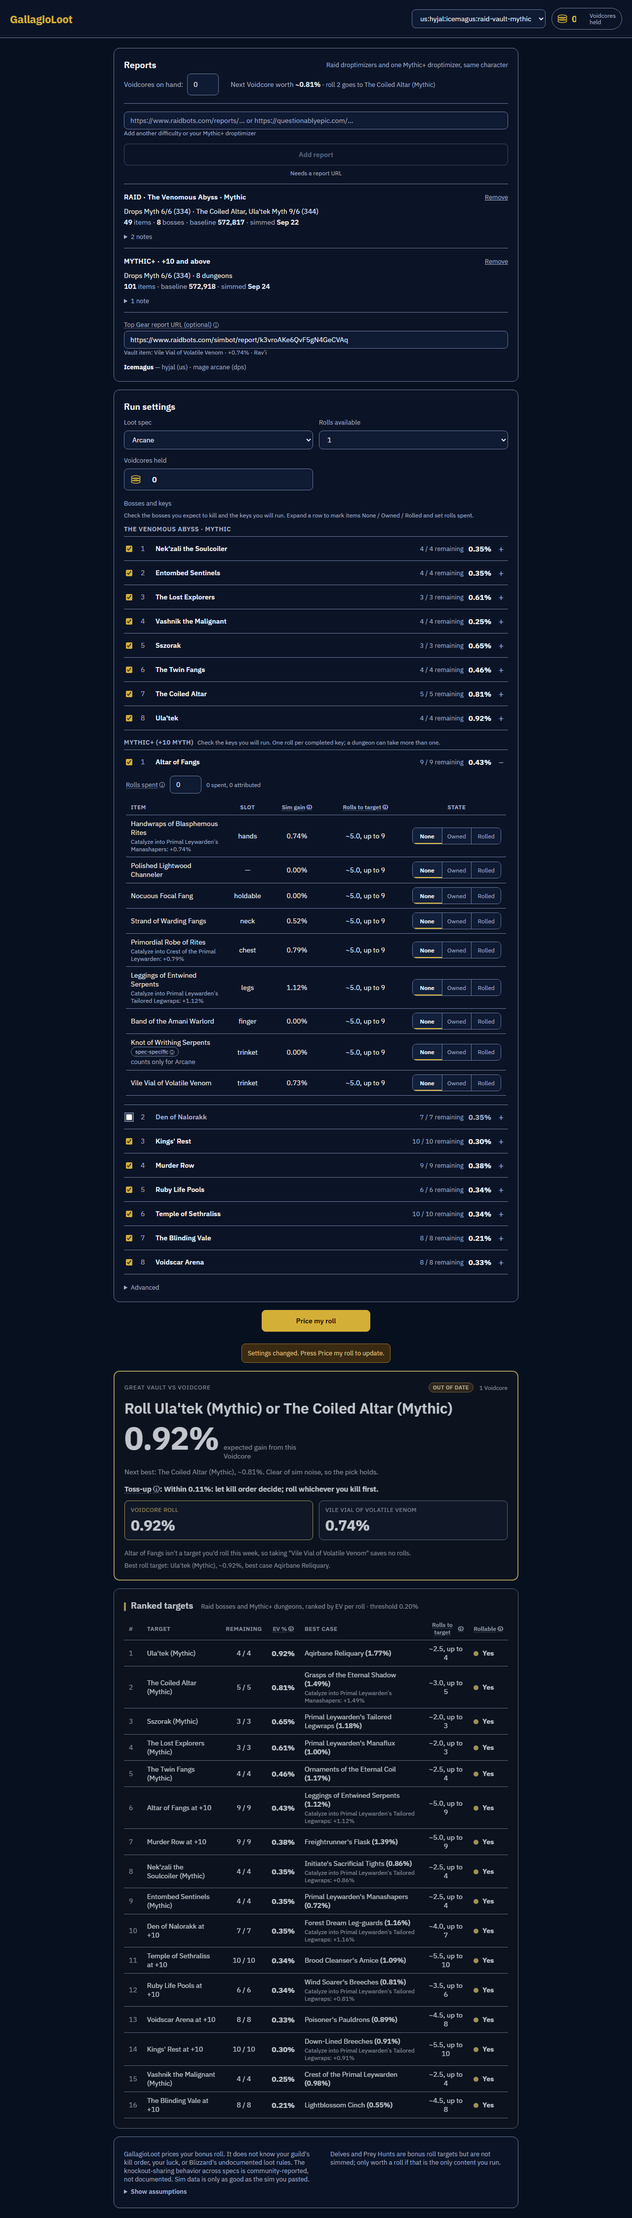
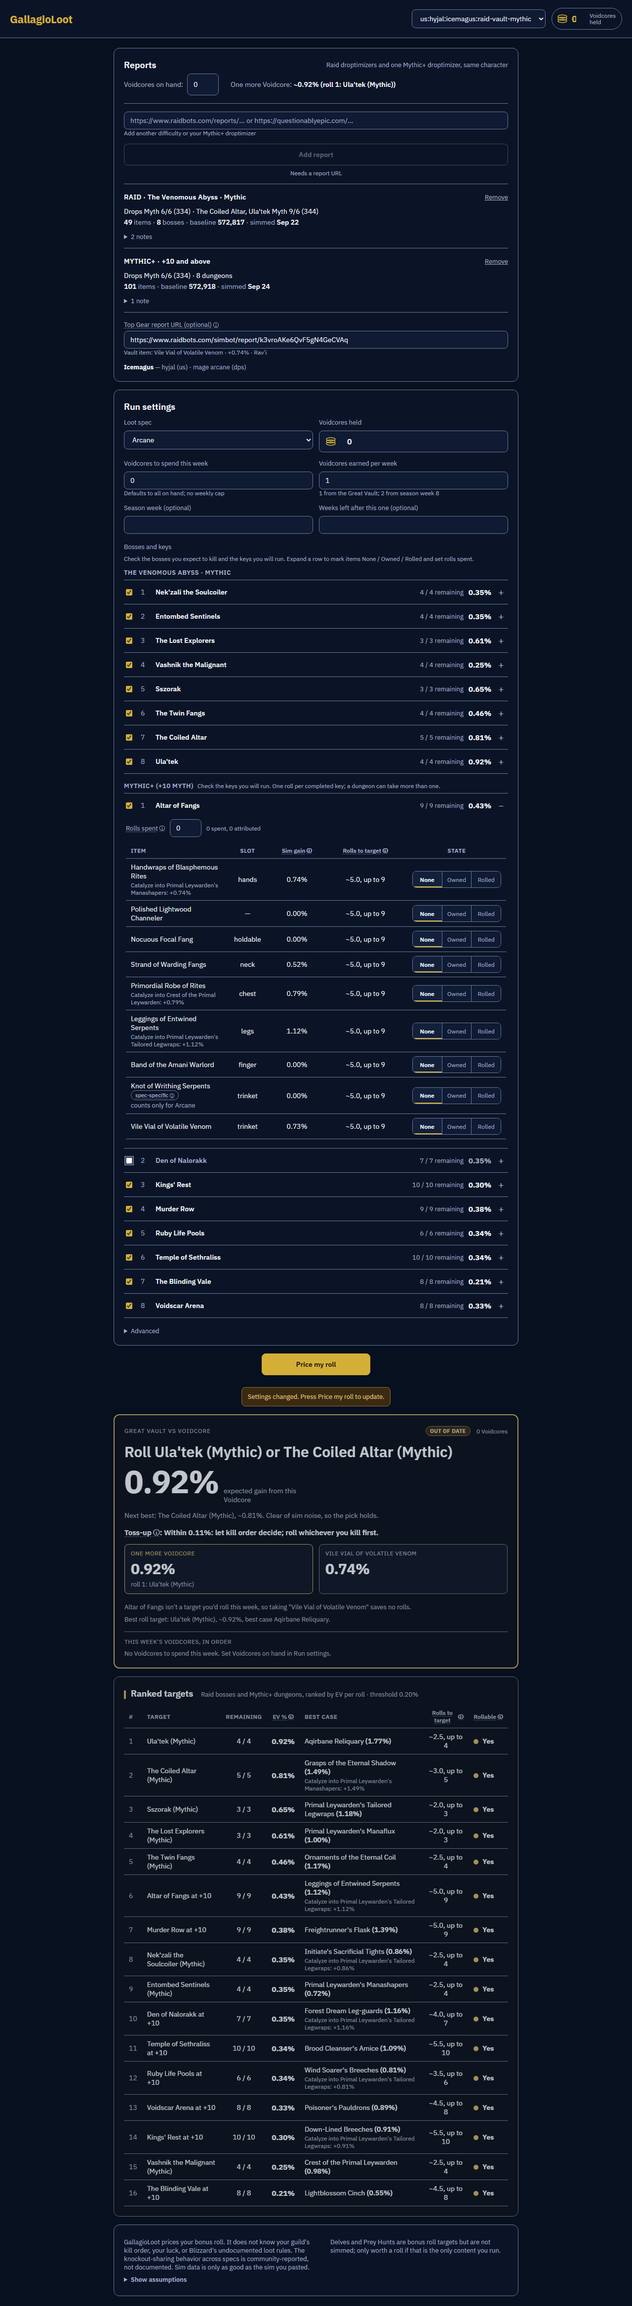
v2.09: design shots assert the roll list (1280/390), contrast pair for the below-threshold flag, live check for Voidcore supply, docs
- single-page-shots.mts: roll-list assertions at 1280 and 390 (Icemagus
  fixtures, 3 on hand: earned 1 -> row 3 "spend now 0.65% vs hold ~0.81%
  next week", earned 2 -> "spend now"; strip hold values; rows inside the
  card and viewport, no clipping); card screenshots
  single-page-card-rolls-1280/390.png.
- live-single-page-check.mts: the none-on-hand card now reads "One more
  Voidcore"; the 2-roll step is replaced by the 3-on-hand supply checks
  (earned 1 then 2) and the footer's supply assumptions, at both widths.
- contrast.mts: warn text on the card panel (11.51:1).
- README/CLAUDE.md/DEPLOY.md: the supply model, no spend cap.

diff --git a/web/design/renderCardStates.tsx b/web/design/renderCardStates.tsx
@@ -22,7 +22,7 @@ const report = JSON.parse(
 ) as NormalizedReport
 
 // --- toss-up: the real live fixture, unmodified (Elemental: Lost Explorers 2.30% vs Ula'tek 2.27%) ---
-const settings: Settings = { thresholdPct: 0.2, rollsAvailable: 1, includeOffSpec: false }
+const settings: Settings = { thresholdPct: 0.2, voidcoresToSpend: 1, includeOffSpec: false }
 const knockout = createState(report.character, report.difficulty, report.realm, report.region)
 const tossUpBossEvals = buildBossPools(report, knockout, settings)
 const tossUpRecommendation = recommend(tossUpBossEvals, settings, report)

diff --git a/web/design/renderCard.tsx b/web/design/renderCard.tsx
@@ -16,7 +16,7 @@ const report = JSON.parse(
   readFileSync(new URL('./fixtures/raidbots-jk6WmLFEnBpEqWueDkyRqA.json', import.meta.url), 'utf-8')
 ) as NormalizedReport
 
-const settings: Settings = { thresholdPct: 0.2, rollsAvailable: 1, includeOffSpec: false }
+const settings: Settings = { thresholdPct: 0.2, voidcoresToSpend: 1, includeOffSpec: false }
 const knockout = createState(report.character, report.difficulty, report.realm, report.region)
 const bossEvals = buildBossPools(report, knockout, settings)
 const recommendation = recommend(bossEvals, settings, report)

diff --git a/README.md b/README.md
@@ -352,7 +352,12 @@ A hand-maintained, static table of all 40 current WoW specs (`{ specId, specName
 
 ## Decision engine
 
-**Next Voidcore (v2.08).** `nextRollValue(bossEvals, settings)` in `src/core/rank.ts` is the EV of ONE MORE roll this week beyond `settings.rollsAvailable`, under `recommend`'s allocation rules (deployable targets; a raid target takes one roll per week, a Mythic+ target repeats): the (N+1)th roll goes to the best target that can still take it, valued at that target's own EV (uniform draw, so every roll on a target is worth its mean). Null when no target can take another (e.g. every deployable raid boss holds a roll and no M+ target is in play). "Rolls currently available" is the Rolls available setting, not Voidcores held (the latter is display-only). The Reports panel shows it with a "Voidcores on hand" input bound to the same Voidcores-held setting.
+**Voidcore supply (v2.09, operator rulings 2026-09-25).** A player earns at most one Voidcore a week from the Great Vault (3 doors unlocked, taking the Voidcore instead of an item) and, from season week 8, one more a week from a separate source. Voidcores can be held until season end (unspent = lost). There is **no weekly spend cap**: the limits are the Voidcores held and the targeting rules (raid one roll per boss per difficulty per week; M+ one per completed key, dungeons repeatable). The old "Rolls available 1/2" setting was a misread of the earning rule and is gone (`Settings.rollsAvailable` became `Settings.voidcoresToSpend`; a stored `rollsAvailable: 2` migrates to 2 earned per week in the web app). `src/core/supply.ts`:
+- `planVoidcores(bossEvals, { onHand, toSpend, earnedPerWeek, weeksLeft? })` orders this week's `toSpend` Voidcores down the ranking with the targeting rules (`rollSequence`, the same greedy order `recommend` uses), continuing past the deployable targets onto in-play targets below the threshold (`BossEval.belowThreshold`, flagged "below threshold: hold it or take the tokens"). Voidcores past the last target are `noTargetCount`.
+- **Spend now vs hold**: next week is modeled as the same targets at the same EVs (same reports, no knockout from this week's rolls, targeting rules reset), so its order is this week's order again. Next week's earned Voidcores plus the ones already carried (held by choice, or without a target) take the top of it first (`nextWeekAhead`); a held Voidcore gets the next position. The j-th lowest roll this week (roll N-j+1) is weighed against next week's position `ahead + j` (the exchange that decides how many to hold). Hold value <= spend-now EV (within 0.005, half a display unit) is "spend now"; otherwise "spend now X% vs hold ~Y% next week".
+- **Season-end stockpile** (`weeksLeft` = weeks after this one): warns when `onHand + earnedPerWeek × weeksLeft` exceeds good rolls (targets at or above threshold) per week × (weeksLeft + 1). A deployable Mythic+ dungeon is repeatable, so good rolls per week are unbounded and it never warns while one is in play.
+- **One more Voidcore** (`plan.extra`): max(its spend-now EV as roll `toSpend + 1` this week, its hold value at next week's position `ahead + 1`); ties go to spend. This is the Voidcore side of `compareVault` and the Reports panel line "One more Voidcore: ~X% (roll N: target)" / "~Y% next week (hold for target)".
+- Icemagus (raid 6PTZ7 + M+ a8URT, Arcane), 3 on hand: Ula'tek 0.921, The Coiled Altar 0.812, Sszorak 0.648. Earning 1 a week the 3rd reads "spend now 0.65% vs hold ~0.81% next week" (next week's one takes Ula'tek, a held one gets The Coiled Altar); earning 2 it is "spend now" (next week's two take Ula'tek and The Coiled Altar, a held one gets Sszorak). Pinned in `test/supply.test.ts`.
 
 **Equipped gear (v2.06, corrected v2.07).** `NormalizedReport.equippedItemIds` (Raidbots only) lists the item ids equipped in the sim profile. A pool entry whose item id is in it gets `equipped: true`. It defaults to Owned (value-0 dud, still in the denominator, `autoOwned: true`) only when the sim does not show it as an upgrade: no sim row, or best delta (catalyst credit included) <= 0. With a positive delta the drop copy is the better one, so it keeps its value, defaults to None and gets `equippedUpgrade: true` (UI label "Equipped (lower ilvl)", all three states offered). The sim delta is the source of truth; no separate item-level comparison. A stored knockout entry always wins, and the default is never persisted. Matched by item id only -- no ring/trinket pair reasoning.
 
@@ -378,10 +383,10 @@ A Voidcore is spent on a specific boss **on its first kill per difficulty per we
 - **Several reports** (`src/core/targets.ts`, `src/core/reportSet.ts`): a character can load several raid droptimizers (difficulties, other instances) and one Mythic+ droptimizer at once. `buildBossPools` runs per report; every `BossEval` carries a `targetKey` unique across reports (`"raid-vault-mythic:2883"`, `"mplus-myth:1322"` — the same boss on two difficulties is two targets), its `kind`, a `difficultyLabel` ("Mythic", "+10 (Myth)"), `keyLevel` (M+) and its report's `baseline`. `settings.expectedTargets` (target keys) replaces `expectedKills` when set. `checkCandidate`/`checkReportSet` refuse a report for a different character (name/realm/region) or loot spec, a duplicate target set, or a second M+ report; baseline drift against the first report warns above 0.5% and refuses above 3% (`DEFAULT_DRIFT_LIMITS`, adjustable).
 - **Allocation** (`recommend` in `src/core/rank.ts`; takes one report or the whole loaded set):
   - Targets from every report are ranked on one scale by `evPct` (EV as % of each report's own baseline — identical to ranking by `ev` within one report; ties: best-case pct, then order).
-  - `rollsAvailable` rolls are allocated greedily down that ranking. A raid target takes at most one roll (first kill per boss per difficulty per week), so raid rolls land on distinct targets; an M+ target is repeatable and keeps taking rolls while it's the best left (`Allocation.rolls` can be > 1). Under uniform draw without replacement the k-th draw from a pool has the same expected value as the first, so a repeat roll on a dungeon is worth its same EV. `totalExpectedGainPct` is the sum of `expectedGainPct` over allocations.
+  - `voidcoresToSpend` rolls (at least 1) are allocated greedily down that ranking (`rollSequence`). A raid target takes at most one roll (first kill per boss per difficulty per week), so raid rolls land on distinct targets; an M+ target is repeatable and keeps taking rolls while it's the best left (`Allocation.rolls` can be > 1). Under uniform draw without replacement the k-th draw from a pool has the same expected value as the first, so a repeat roll on a dungeon is worth its same EV. `totalExpectedGainPct` is the sum of `expectedGainPct` over allocations.
   - If no boss is rollable, `allocations` is empty and `fallback` explains why (`'below-threshold'` vs `'no-pool'`) with a message suggesting the Great Vault's Thalassian Tokens of Merit instead — exported as `fallbackMessage()` so a frontend can override the copy.
   - `assumptions` always lists the modeling assumptions above — including the unverified cross-spec knockout sharing, the first-kill-only bonus roll, and that ranking is limited to bosses you expect to kill this week — regardless of whether a recommendation was possible.
-  - **Toss-up detection**: `recommend()` also compares the boundary of its allocation (the lowest-ranked target that got a roll) against the best target that got none — rank 1 vs rank 2 for `rollsAvailable: 1`, rank 2 vs rank 3 for two distinct raid rolls, rank 1 vs rank 2 when a repeatable M+ target took both rolls. `tossUp.targetKeys` identifies the two sides. When the gap is small enough to be sim noise rather than a real ranking, `Recommendation.tossUp` is set to `{ bosses: [name, name], gapPct }`; otherwise it's `null`. The allocation itself is unaffected — a toss-up only annotates the recommendation, it never changes which boss gets the roll. "Small enough" (`isTossUpGap` in `src/core/tossup.ts`, shared with `compareVault`'s own toss-up verdict) means either:
+  - **Toss-up detection**: `recommend()` also compares the boundary of its allocation (the lowest-ranked target that got a roll) against the best target that got none — rank 1 vs rank 2 for `voidcoresToSpend: 1`, rank 2 vs rank 3 for two distinct raid rolls, rank 1 vs rank 2 when a repeatable M+ target took both rolls. `tossUp.targetKeys` identifies the two sides. When the gap is small enough to be sim noise rather than a real ranking, `Recommendation.tossUp` is set to `{ bosses: [name, name], gapPct }`; otherwise it's `null`. The allocation itself is unaffected — a toss-up only annotates the recommendation, it never changes which boss gets the roll. "Small enough" (`isTossUpGap` in `src/core/tossup.ts`, shared with `compareVault`'s own toss-up verdict) means either:
     - the gap is inside a fixed band, `max(0.1, 5% of the boundary boss's evPct)`; or
     - both bosses carry a per-boss sim error (`BossEval.evErrorPct`, only ever set for Raidbots reports — see below) and the gap is smaller than their *combined* error.
 
@@ -391,13 +396,13 @@ A Voidcore is spent on a specific boss **on its first kill per difficulty per we
 
 ### Vault comparison (`src/core/vault.ts`)
 
-The player faces a Great Vault choice each week: take a specific vault item outright, or take the Nebulous Voidcore and spend the week's bonus roll(s) instead.
+The player faces a Great Vault choice each week: take a specific vault item outright, or take the Nebulous Voidcore, which adds one Voidcore to supply.
 
 - **`rollsToTarget(pool, entryKey, thresholdValue)`**: with knockout, a roll is a uniform draw *without replacement* from the remaining pool, so the expected number of rolls to land one specific entry in a pool of `n` remaining is `(n+1)/2` and the worst case is `n` (standard without-replacement rank argument). It also computes a threshold-truncated version: the expected number of rolls a player would *actually* spend hunting the target, given they'd abandon the pool once — after a miss — its remaining mean value (over the entries still left, target included) falls below `thresholdValue` (absolute, `thresholdPct/100 × baseline`). The truncated case is computed exactly via a recurrence over remaining subsets (memoized on the subset's sorted keys), not simulation — each state's continuation depends only on which entries remain, not the draw order that got there — and cross-checked in tests against brute-force enumeration of all removal orders on a 4-item pool. Every non-knocked-out `PoolEntry` on a `BossEval` carries its own `rollsToTargetExpected`/`rollsToTargetWorst`/`rollsToTargetTruncated`, computed against that boss's remaining pool, so a frontend can show "about K rolls to land this" for any item.
-- **`compareVault({ vaultItem, bossEvals, recommendation, settings, report })`**: returns a `VaultDecision`.
-  - **Voidcore option**: `voidcoreGainPct = recommendation.totalExpectedGainPct` (for `settings.rollsAvailable` rolls).
+- **`compareVault({ vaultItem, bossEvals, recommendation, settings, report, supply? })`**: returns a `VaultDecision`.
+  - **Voidcore option** (v2.09): `voidcoreGainPct` is the value of the ONE Voidcore the vault adds, `planVoidcores(bossEvals, supply).extra` (max of spend now as the next roll, hold for next week), with `voidcoreUse` saying where it goes. `supply` defaults to none on hand, earning 1 a week, where it is simply roll 1. v2.08 used the whole week's rolls (`totalExpectedGainPct`; Icemagus 1.73% at 2 rolls).
   - With several reports loaded, `bossEvals` spans all of them: the vault item is matched against every target's pool (raid and M+), the threshold uses the matched target's own baseline, and the alternative roll excludes the matched target by `targetKey`.
-  - **Vault item option**: `vaultItemGainPct = vaultItem.gainPct + savedRolls × altRollEvPct`. `savedRolls` is the `expectedTruncated` rolls to hit that item via bonus roll, if its loot pool is identifiable — matched by `itemId` against a `PoolEntry` across all bosses first, falling back to `encounterId` against a whole `BossEval` (using its `bestCase` entry as the target, since the vault item may represent a whole dungeon/boss's reward rather than one specific item) — capped at the pool's remaining count; if no pool is identifiable, `savedRolls = 0` with a note. **The credit only applies when the vault item's target is among the targets `recommendation.allocations` spends this week's rolls on** (by target key): you can't save rolls you would never have spent hunting there. Otherwise `savedRolls = 0`, the comparison is the plain vault gain vs the Voidcore path, and `VaultDecision.savedRollsNote` (also in `notes`, shown on the card) says why, e.g. "Altar of Fangs isn't a target you'd roll this week, so taking \"Vile Vial of Volatile Venom\" saves no rolls." With the M+ report loaded, Altar of Fangs ranks 6th, so the Vial no longer earns a 5.7-roll credit (0.81% vs 0.74% is a toss-up at 1 roll, Voidcore at 2). `altRollEvPct` is the `evPct` of the best rollable boss *other than* the vault item's own pool (`0` if none).
+  - **Vault item option**: `vaultItemGainPct = vaultItem.gainPct + savedRolls × altRollEvPct`. `savedRolls` is the `expectedTruncated` rolls to hit that item via bonus roll, if its loot pool is identifiable — matched by `itemId` against a `PoolEntry` across all bosses first, falling back to `encounterId` against a whole `BossEval` (using its `bestCase` entry as the target, since the vault item may represent a whole dungeon/boss's reward rather than one specific item) — capped at the pool's remaining count; if no pool is identifiable, `savedRolls = 0` with a note. **The credit only applies when the vault item's target is among the targets `recommendation.allocations` spends this week's rolls on** (by target key): you can't save rolls you would never have spent hunting there. Otherwise `savedRolls = 0`, the comparison is the plain vault gain vs the Voidcore path, and `VaultDecision.savedRollsNote` (also in `notes`, shown on the card) says why, e.g. "Altar of Fangs isn't a target you'd roll this week, so taking \"Vile Vial of Volatile Venom\" saves no rolls." With the M+ report loaded, Altar of Fangs ranks 6th, so the Vial no longer earns a 5.7-roll credit (Icemagus vs the Vial's 0.74%: none on hand 0.92%, Voidcore; 3 on hand earning 1 0.81% held, toss-up; earning 2 0.65% held, toss-up). `altRollEvPct` is the `evPct` of the best rollable boss *other than* the vault item's own pool (`0` if none).
   - **Verdict**: `'tokens'` when neither option clears `thresholdPct`; else `'toss-up'` when `|voidcoreGainPct − vaultItemGainPct| < max(0.1, 10% of the larger)` (with a note to prefer the vault item on a toss-up if it removes a dungeon from the weekly farm); else `'vault'` or `'voidcore'`, whichever is larger.
   - Returns both option values, `savedRolls`, the verdict, a one-sentence `explanation`, and any `notes` (warnings, the toss-up tip).
 

diff --git a/CLAUDE.md b/CLAUDE.md
@@ -40,5 +40,6 @@ Hard rules for the `web/` UI (Cloudflare Worker static site, see `web/CLAUDE.md`
 - Mythic+ droptimizers (aggregate instance -1, every row `-1/-1/...`) are attributed to dungeons via the itemLibrary sources join; each dungeon is a repeatable `mplus` target. Several reports (raid difficulties + one M+) can be ranked together (`src/core/targets.ts`, `src/core/reportSet.ts`); catalyst rows credit their source item at max(own, catalyzed). See README.md "Raidbots Mythic+ droptimizer" and "Decision engine".
 - **Curio is not a bonus-roll outcome** (Erick's Adventure Journal ruling, 2026-09-24; supersedes the earlier "Curio is one pool entry" rule): Ula'tek's Slumbering Coil Curio (tier seed 2895, `viaCurio` rows) can't be won with a bonus roll, so it is never a `PoolEntry` -- not in the pool, the denominator, best case, rolls-to-target or knockout (`src/core/pool.ts`, `src/core/curio.ts`). Catalyst credit for real items is unchanged. The web UI hides the curio row and notes why under Ula'tek's table; stored knockout entries that reference it are ignored on load and dropped on save.
 - **Equipped gear is auto-Owned only when it isn't a sim upgrade** (v2.06, corrected v2.07): Raidbots reports carry the sim profile's equipped gear (`rawFormData.droptimizer.equipped`); `NormalizedReport.equippedItemIds` holds its item ids (`src/normalize/equipped.ts`; QE Live's payload has none). `buildBossPools` marks a pool entry whose itemId is equipped `PoolEntry.equipped`, and treats it as Owned (a value-0 dud, `autoOwned`) unless the knockout state has an entry of its own **or the sim shows an upgrade** (best delta incl. catalyst credit > 0; the drop copy is then a higher item level than the worn one). Upgrades keep their value, default to None and set `equippedUpgrade`; the web UI labels them "Equipped (lower ilvl)" and offers None / Owned / Rolled, while auto-Owned rows say "Equipped" and offer Owned / Rolled. The sim delta is the source of truth (no ilvl comparison). The default is never stored. Matches by itemId alone (no ring/trinket unique-equip reasoning).
-- **Per-report drops and the Reports panel (v2.08)**: each report shows as one compact block (`web/src/components/ReportBlock.tsx`): heading + Remove, a drop line (`Drops Myth 6/6 (334) · The Coiled Altar, Ula'tek Myth 9/6 (344)`, from `summarizeDrops`/`formatDropLine` in `src/core/drops.ts`, read off the report's own rows and item labels, never hardcoded per boss), then items / bosses / baseline / sim date (`NormalizedReport.simmedAt` = Raidbots `data.json` `Last-Modified`, QE Live `timeCreated`). Warnings collapse under an "N notes" toggle, open by default only for an error. A once-per-panel strip shows "Voidcores on hand" (the Voidcores-held setting) and "Next Voidcore worth ~X%" (`nextRollValue` in `src/core/rank.ts`: the (rollsAvailable+1)th roll under the same allocation rules). The 344 rows carry only `overrides.itemLevel: "Myth 9"` (no `upgrade` object); `parseTrackInfo` treats that as a step past max ("Myth 9/6"), never a max-upgrade warning.
+- **Per-report drops and the Reports panel (v2.08)**: each report shows as one compact block (`web/src/components/ReportBlock.tsx`): heading + Remove, a drop line (`Drops Myth 6/6 (334) · The Coiled Altar, Ula'tek Myth 9/6 (344)`, from `summarizeDrops`/`formatDropLine` in `src/core/drops.ts`, read off the report's own rows and item labels, never hardcoded per boss), then items / bosses / baseline / sim date (`NormalizedReport.simmedAt` = Raidbots `data.json` `Last-Modified`, QE Live `timeCreated`). Warnings collapse under an "N notes" toggle, open by default only for an error. A once-per-panel strip shows "Voidcores on hand" (the Voidcores-held setting) and, since v2.09, "One more Voidcore: ~X%" (`planVoidcores(...).extra` in `src/core/supply.ts`). The 344 rows carry only `overrides.itemLevel: "Myth 9"` (no `upgrade` object); `parseTrackInfo` treats that as a step past max ("Myth 9/6"), never a max-upgrade warning.
+- **Voidcore supply (v2.09, operator rulings 2026-09-25; supersede "Rolls available 1/2")**: earning is at most 1 Voidcore a week from the Great Vault plus 1 more a week from season week 8 (another source); Voidcores are held until season end (unspent = lost); there is **no weekly spend cap** (limits: Voidcores held + targeting rules). `src/core/supply.ts` `planVoidcores` orders the Voidcores to spend this week (Run settings: on hand, to spend (default = on hand), earned per week (default 1, 2 from season week 8), optional season week / weeks left), flags below-threshold rolls, compares each with its hold value next week (after next week's earned + carried Voidcores take the top targets), warns on a season-end stockpile, and values one more Voidcore (the vault's Voidcore side in `compareVault`). `Settings.voidcoresToSpend` replaced `rollsAvailable`; the web migrates a stored `rollsAvailable: 2` to 2 earned per week. The seven supply assumptions (`VOIDCORE_ASSUMPTIONS`) are listed in the footer.
 - CORS: `https://gallagioloot.icehunter.net` (configurable via `wrangler.toml [vars] ALLOWED_ORIGIN`) plus `http://localhost:*` for dev.

diff --git a/DEPLOY.md b/DEPLOY.md
@@ -39,7 +39,7 @@ npx wrangler deploy        # uses web/wrangler.toml, uploads dist/
 
 ## Smoke test
 
-**Run `npm run check:live` (in `web/`) after every deploy** — it drives the live site at 1280px and 390px with a real raid droptimizer + Mythic+ droptimizer + Top Gear report and asserts (PASS/FAIL per check, non-zero exit on any failure) the compact report blocks (drop line with the Myth 9/6 (344) exception on the Mythic raid, sim dates, the closed "N notes" toggle, Voidcores on hand mirrored with Run settings, the "Next Voidcore worth ~X%" line), the M+ section, target EVs, Ula'tek's 4-item pool (4 / 4, no Curio row, the curio note), the 1-roll kill-order card (Ula'tek or The Coiled Altar, Voidcore 0.92% vs the Vial 0.74%) and its no-saved-rolls explanation, the 2-roll Voidcore verdict (1.73%), the spec-specific pill, and layout (screenshots/JSON land gitignored in `web/design/live-single-page-*`).
+**Run `npm run check:live` (in `web/`) after every deploy** — it drives the live site at 1280px and 390px with a real raid droptimizer + Mythic+ droptimizer + Top Gear report and asserts (PASS/FAIL per check, non-zero exit on any failure) the compact report blocks (drop line with the Myth 9/6 (344) exception on the Mythic raid, sim dates, the closed "N notes" toggle, Voidcores on hand mirrored with Run settings, the "One more Voidcore" line), the M+ section, target EVs, Ula'tek's 4-item pool (4 / 4, no Curio row, the curio note), the none-on-hand kill-order card (Ula'tek or The Coiled Altar, One more Voidcore 0.92% vs the Vial 0.74%) and its no-saved-rolls explanation, the v2.09 Voidcore supply card at 3 on hand (ordered list; earned 1: "spend now 0.65% vs hold ~0.81% next week"; earned 2: "spend now"; the strip's hold values), the footer's supply assumptions, the spec-specific pill, and layout (screenshots/JSON land gitignored in `web/design/live-single-page-*`).
 
 ```bash
 cd web

diff --git a/web/design/contrast-report.md b/web/design/contrast-report.md
@@ -1,6 +1,6 @@
 # Contrast audit
 
-Computed with `design/contrast.mts` (WCAG 2.1 relative-luminance formula, no eyeballing). 79/80 pairs pass; 1 fail.
+Computed with `design/contrast.mts` (WCAG 2.1 relative-luminance formula, no eyeballing). 80/81 pairs pass; 1 fail.
 
 ## Changes made
 
@@ -46,6 +46,7 @@ Computed with `design/contrast.mts` (WCAG 2.1 relative-luminance formula, no eye
 | btn-gold label text on gold fill | `#17110a` | `#d4af37` | 8.91:1 | 4.5:1 (text) | ✅ |
 | btn-gold:hover label text on gold-strong fill | `#17110a` | `#e4c158` | 10.77:1 | 4.5:1 (text) | ✅ |
 | Warning banner text on warning background | `#e8c98a` | `#3a2a12` | 8.65:1 | 4.5:1 (text) | ✅ |
+| Below-threshold roll flag (warn text) on the rec-card panel (v2.09 roll list) | `#e8c98a` | `#0b1426` | 11.51:1 | 4.5:1 (text) | ✅ |
 | Warning banner border on warning background | `#996f2b` | `#3a2a12` | 3.07:1 | 3:1 (UI component) | ✅ |
 | Badge-yes text on panel | `#8fd6a4` | `#0b1426` | 10.79:1 | 4.5:1 (text) | ✅ |
 | Badge-yes border on panel | `#467655` | `#0b1426` | 3.49:1 | 3:1 (UI component) | ✅ |
